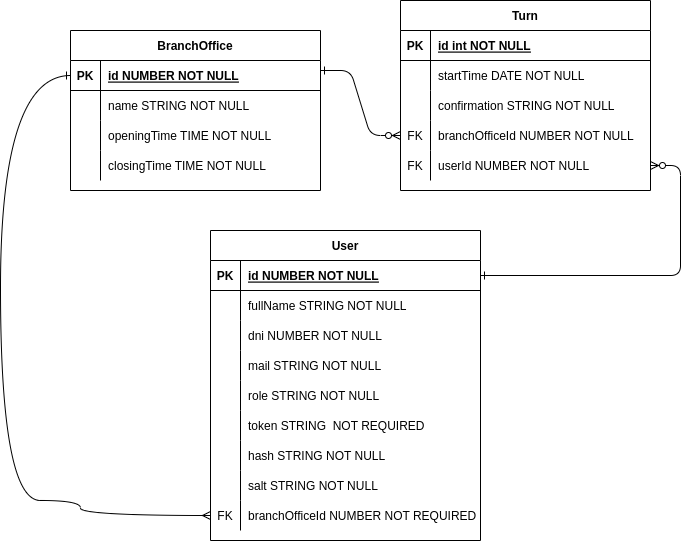
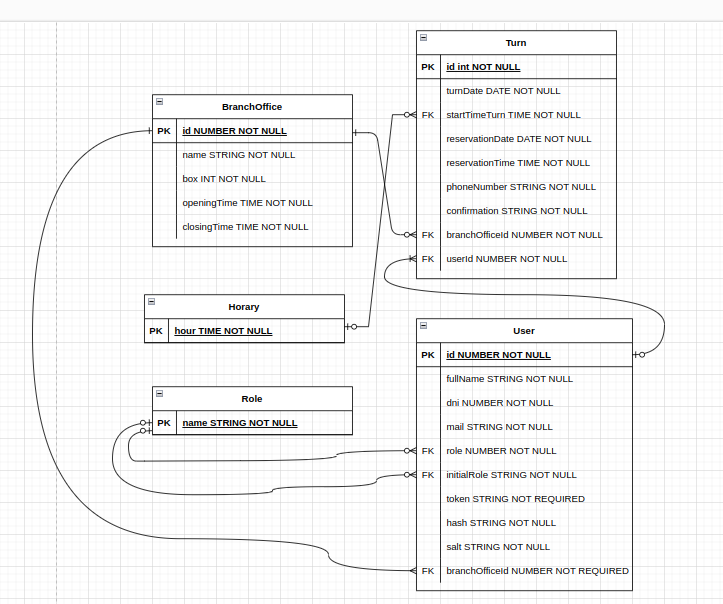
Modificando model BranchOffice y Schema Desing

diff --git a/api/models/BranchOffice.js b/api/models/BranchOffice.js
@@ -8,6 +8,10 @@ BranchOffice.init(
       type: Sequelize.STRING,
       allowNull: false,
     },
+    box: {
+      type: Sequelize.NUMBER,
+      allowNull: false,
+    },
     openingTime: {
       type: Sequelize.TIME,
       allowNull: false,
